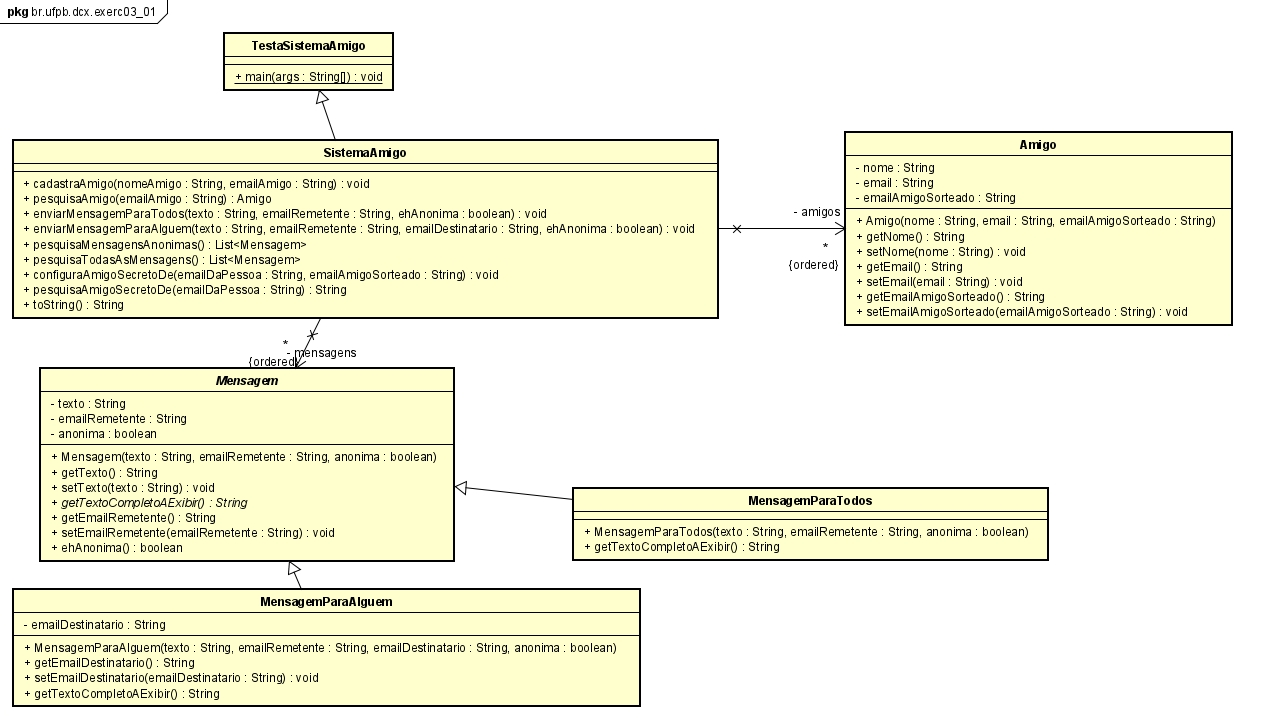
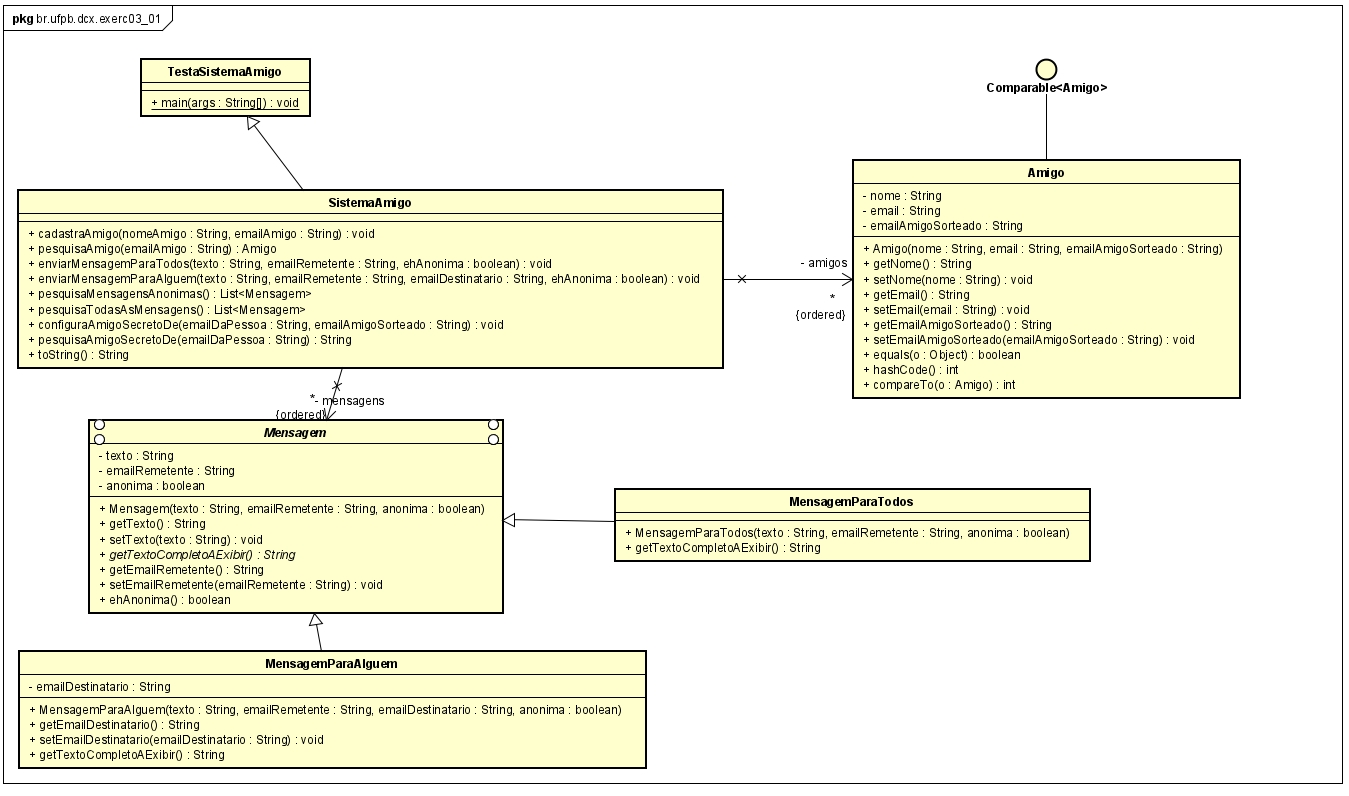
exerc03 e 04

diff --git a/src/main/java/br/ufpb/dcx/poo2024_1/exerc03_02/SistemaAmigoMapTest.java b/src/main/java/br/ufpb/dcx/poo2024_1/exerc03_02/SistemaAmigoMapTest.java
@@ -1,0 +1,102 @@
+package br.ufpb.dcx.poo2024_1.exerc03_02;
+import static org.junit.jupiter.api.Assertions.assertEquals;
+import static org.junit.jupiter.api.Assertions.assertThrows;
+import static org.junit.jupiter.api.Assertions.assertTrue;
+import static org.junit.jupiter.api.Assertions.fail;
+
+import java.util.List;
+
+import br.ufpb.dcx.poo2024_1.exerc03_02.Exceptions.*;
+import org.junit.jupiter.api.BeforeEach;
+import org.junit.jupiter.api.Test;
+
+public class SistemaAmigoMapTest {
+    SistemaAmigoMap sistema;
+
+    @BeforeEach
+    void setUp()  {
+        this.sistema = new SistemaAmigoMap();
+    }
+
+    @Test
+    void testSistemaAmigo() {
+        assertTrue(sistema.pesquisaTodasAsMensagens().isEmpty());
+        assertThrows(AmigoInexistenteException.class,
+                ()-> sistema.pesquisaAmigo("ayla@teste.com"));
+    }
+
+    @Test
+    void testPesquisaECadastraAmigo() {
+        try {
+            sistema.pesquisaAmigo("ayla@teste.com");
+            fail("Deveria falhar pois não existe ainda");
+        } catch (AmigoInexistenteException e) {
+            //Ok
+        }
+        try {
+            sistema.cadastraAmigo("ayla", "ayla@teste.com");
+            Amigo a = sistema.pesquisaAmigo("ayla@teste.com");
+            assertEquals("ayla", a.getNome());
+            assertEquals("ayla@teste.com", a.getEmail());
+        } catch (AmigoJaExisteException | AmigoInexistenteException  e) {
+            fail("Não deveria lançar exceção");
+        }
+
+
+    }
+
+    @Test
+    void testEnviarMensagemParaTodos() {
+        assertTrue(sistema.pesquisaTodasAsMensagens().isEmpty());
+        sistema.enviarMensagemParaTodos("texto", "ayla@dcx.ufpb.br", true);
+        List<Mensagem> mensagensAchadas = sistema.pesquisaTodasAsMensagens();
+        assertTrue(mensagensAchadas.size()==1);
+        assertTrue(mensagensAchadas.get(0).getEmailRemetente().equals("ayla@dcx.ufpb.br"));
+    }
+
+    @Test
+    void testEnviarMensagemParaAlguem() {
+        assertTrue(sistema.pesquisaTodasAsMensagens().isEmpty());
+        sistema.enviarMensagemParaAlguem("texto", "ayla@dcx.ufpb.br", "rodrigo@dcx.ufpb.br", true);
+        List<Mensagem> mensagensAchadas = sistema.pesquisaTodasAsMensagens();
+        assertEquals(1, mensagensAchadas.size());
+        assertTrue(mensagensAchadas.get(0) instanceof MensagemParaAlguem);
+        assertTrue(mensagensAchadas.get(0).getTexto().equals("texto"));
+    }
+
+    @Test
+    void testPesquisaMensagensAnonimas() {
+        assertTrue(sistema.pesquisaTodasAsMensagens().isEmpty());
+        sistema.enviarMensagemParaAlguem("texto 1", "ayla@dcx.ufpb.br", "rodrigo@dcx.ufpb.br", false);
+        assertTrue(sistema.pesquisaMensagensAnonimas().isEmpty());
+        sistema.enviarMensagemParaAlguem("texto 2", "ayla@dcx.ufpb.br", "rodrigo@dcx.ufpb.br", true);
+        assertTrue(sistema.pesquisaMensagensAnonimas().size()==1);
+    }
+
+    @Test
+    void testPesquisaTodasAsMensagens() {
+        assertTrue(sistema.pesquisaTodasAsMensagens().isEmpty());
+        sistema.enviarMensagemParaAlguem("texto 1", "ayla@dcx.ufpb.br", "rodrigor@dcx.ufpb.br", false);
+        assertTrue(sistema.pesquisaTodasAsMensagens().size()==1);
+        sistema.enviarMensagemParaAlguem("texto 2", "ayla@dcx.ufpb.br", "rodrigor@dcx.ufpb.br", true);
+        assertTrue(sistema.pesquisaTodasAsMensagens().size()==2);
+    }
+
+    @Test
+    void testPesquisaAmigoEConfiguraAmigoSecretoDe() {
+        assertThrows(AmigoInexistenteException.class,
+                ()-> sistema.pesquisaAmigoSecretoDe("ayla@dcx.ufpb.br"));
+        try {
+            sistema.cadastraAmigo("Ayla", "ayla@dcx.ufpb.br");
+            sistema.cadastraAmigo("Ana", "ana@dcx.ufpb.br");
+            sistema.configuraAmigoSecretoDe("ayla@dcx.ufpb.br", "ana@dcx.ufpb.br");
+            sistema.configuraAmigoSecretoDe("ana@dcx.ufpb.br", "ayla@dcx.ufpb.br");
+            assertEquals("ana@dcx.ufpb.br", sistema.pesquisaAmigoSecretoDe("ayla@dcx.ufpb.br"));
+            assertEquals("ayla@dcx.ufpb.br", sistema.pesquisaAmigoSecretoDe("ana@dcx.ufpb.br"));
+        } catch (AmigoInexistenteException | AmigoJaExisteException | AmigoNaoSorteadoException e) {
+            fail("Não deveria lançar exceção");
+        }
+    }
+
+
+}

diff --git a/src/main/java/br/ufpb/dcx/poo2024_1/exerc03_02/SistemaAmigoMap.java b/src/main/java/br/ufpb/dcx/poo2024_1/exerc03_02/SistemaAmigoMap.java
@@ -1,25 +1,26 @@
 package br.ufpb.dcx.poo2024_1.exerc03_02;
 
 import java.util.ArrayList;
+import java.util.HashMap;
 import java.util.List;
+import java.util.Map;
+
 import br.ufpb.dcx.poo2024_1.exerc03_02.Exceptions.*;
 
-public class SistemaAmigo {
+public class SistemaAmigoMap {
     private List<Mensagem> mensagens = new ArrayList<>();
-    private List<Amigo> amigos = new ArrayList<>();
+    private Map<String, Amigo> amigos = new HashMap<>();
 
-    public void cadastraAmigo(String nomeAmigo, String emailAmigo) {
-        amigos.add(new Amigo(nomeAmigo, emailAmigo, ""));
+    public void cadastraAmigo(String nomeAmigo, String emailAmigo) throws AmigoJaExisteException {
+        if (amigos.get(emailAmigo) != null) throw new AmigoJaExisteException("Email já existe no sistema!");
+
+        amigos.put(emailAmigo, new Amigo(nomeAmigo, emailAmigo, ""));
     }
     public Amigo pesquisaAmigo(String emailAmigo) throws AmigoInexistenteException {
-        Amigo foundAmigo = null;
+        Amigo amigo = amigos.get(emailAmigo);
+        if (amigo == null) throw new AmigoInexistenteException("Nenhum amigo com este email");
 
-        for (Amigo amigo: amigos) {
-            if (amigo.getEmail().equals(emailAmigo)) foundAmigo = amigo;
-        }
-        if (foundAmigo == null) throw new AmigoInexistenteException("Nenhum amigo com este email.");
-
-        return foundAmigo;
+        return amigo;
     }
 
     public void enviarMensagemParaTodos(String texto, String emailRemetente, boolean ehAnonima) {

diff --git a/src/main/java/br/ufpb/dcx/poo2024_1/exerc03_02/TestaSistemaAmigoMap.java b/src/main/java/br/ufpb/dcx/poo2024_1/exerc03_02/TestaSistemaAmigoMap.java
@@ -1,0 +1,38 @@
+package br.ufpb.dcx.poo2024_1.exerc03_02;
+
+import javax.swing.*;
+import java.util.List;
+
+public class TestaSistemaAmigoMap {
+    public static void main(String[] args) {
+        SistemaAmigoMap sistema = new SistemaAmigoMap();
+
+        try {
+            sistema.cadastraAmigo("José", "jose@email.com.br");
+            sistema.cadastraAmigo("Maria", "maria@email.com.br");
+
+            sistema.configuraAmigoSecretoDe("jose@email.com.br", "maria@email.com.br");
+            sistema.configuraAmigoSecretoDe("maria@email.com.br", "jose@email.com.br");
+        }
+        catch (Exception ex) {
+            JOptionPane.showMessageDialog(null, ex.getMessage());
+        }
+
+        sistema.enviarMensagemParaAlguem("Olá José!", "maria@email.com.br", "jose@email.com.br", true);
+        sistema.enviarMensagemParaTodos("Olá todos!", "maria@email.com.br", true);
+
+        List<Mensagem> mensagensAnonimas = sistema.pesquisaMensagensAnonimas();
+        for (Mensagem msg: mensagensAnonimas) {
+            JOptionPane.showMessageDialog(null, msg.getTextoCompletoAExibir());
+        }
+
+        try {
+            if (sistema.pesquisaAmigoSecretoDe("jose@email.com.br").equals("maria@email.com.br")) {
+                JOptionPane.showMessageDialog(null, "Ok!");
+            }
+        }
+        catch (Exception ex) {
+            JOptionPane.showMessageDialog(null, "Amigo não configurado!\n\nCausa: " + ex.getMessage());
+        }
+    }
+}

diff --git a/src/main/java/br/ufpb/dcx/poo2024_1/exerc03_02/Amigo.java b/src/main/java/br/ufpb/dcx/poo2024_1/exerc03_02/Amigo.java
@@ -33,6 +33,22 @@ public class Amigo implements Comparable<Amigo> {
     }
 
     @Override
+    public boolean equals(Object o) {
+        if (this == o) return true;
+        if (o == null || getClass() != o.getClass()) return false;
+
+        Amigo amigo = (Amigo) o;
+        return nome.equals(amigo.nome) && email.equals(amigo.email);
+    }
+
+    @Override
+    public int hashCode() {
+        int result = nome.hashCode();
+        result = 31 * result + email.hashCode();
+        return result;
+    }
+
+    @Override
     public int compareTo(Amigo o) {
         return this.nome.compareTo(o.nome);
     }

diff --git a/src/main/java/br/ufpb/dcx/poo2024_1/exerc03_02/Exceptions/AmigoJaExisteException.java b/src/main/java/br/ufpb/dcx/poo2024_1/exerc03_02/Exceptions/AmigoJaExisteException.java
@@ -1,0 +1,7 @@
+package br.ufpb.dcx.poo2024_1.exerc03_02.Exceptions;
+
+public class AmigoJaExisteException extends Exception{
+    public AmigoJaExisteException(String msg) {
+        super(msg);
+    }
+}
